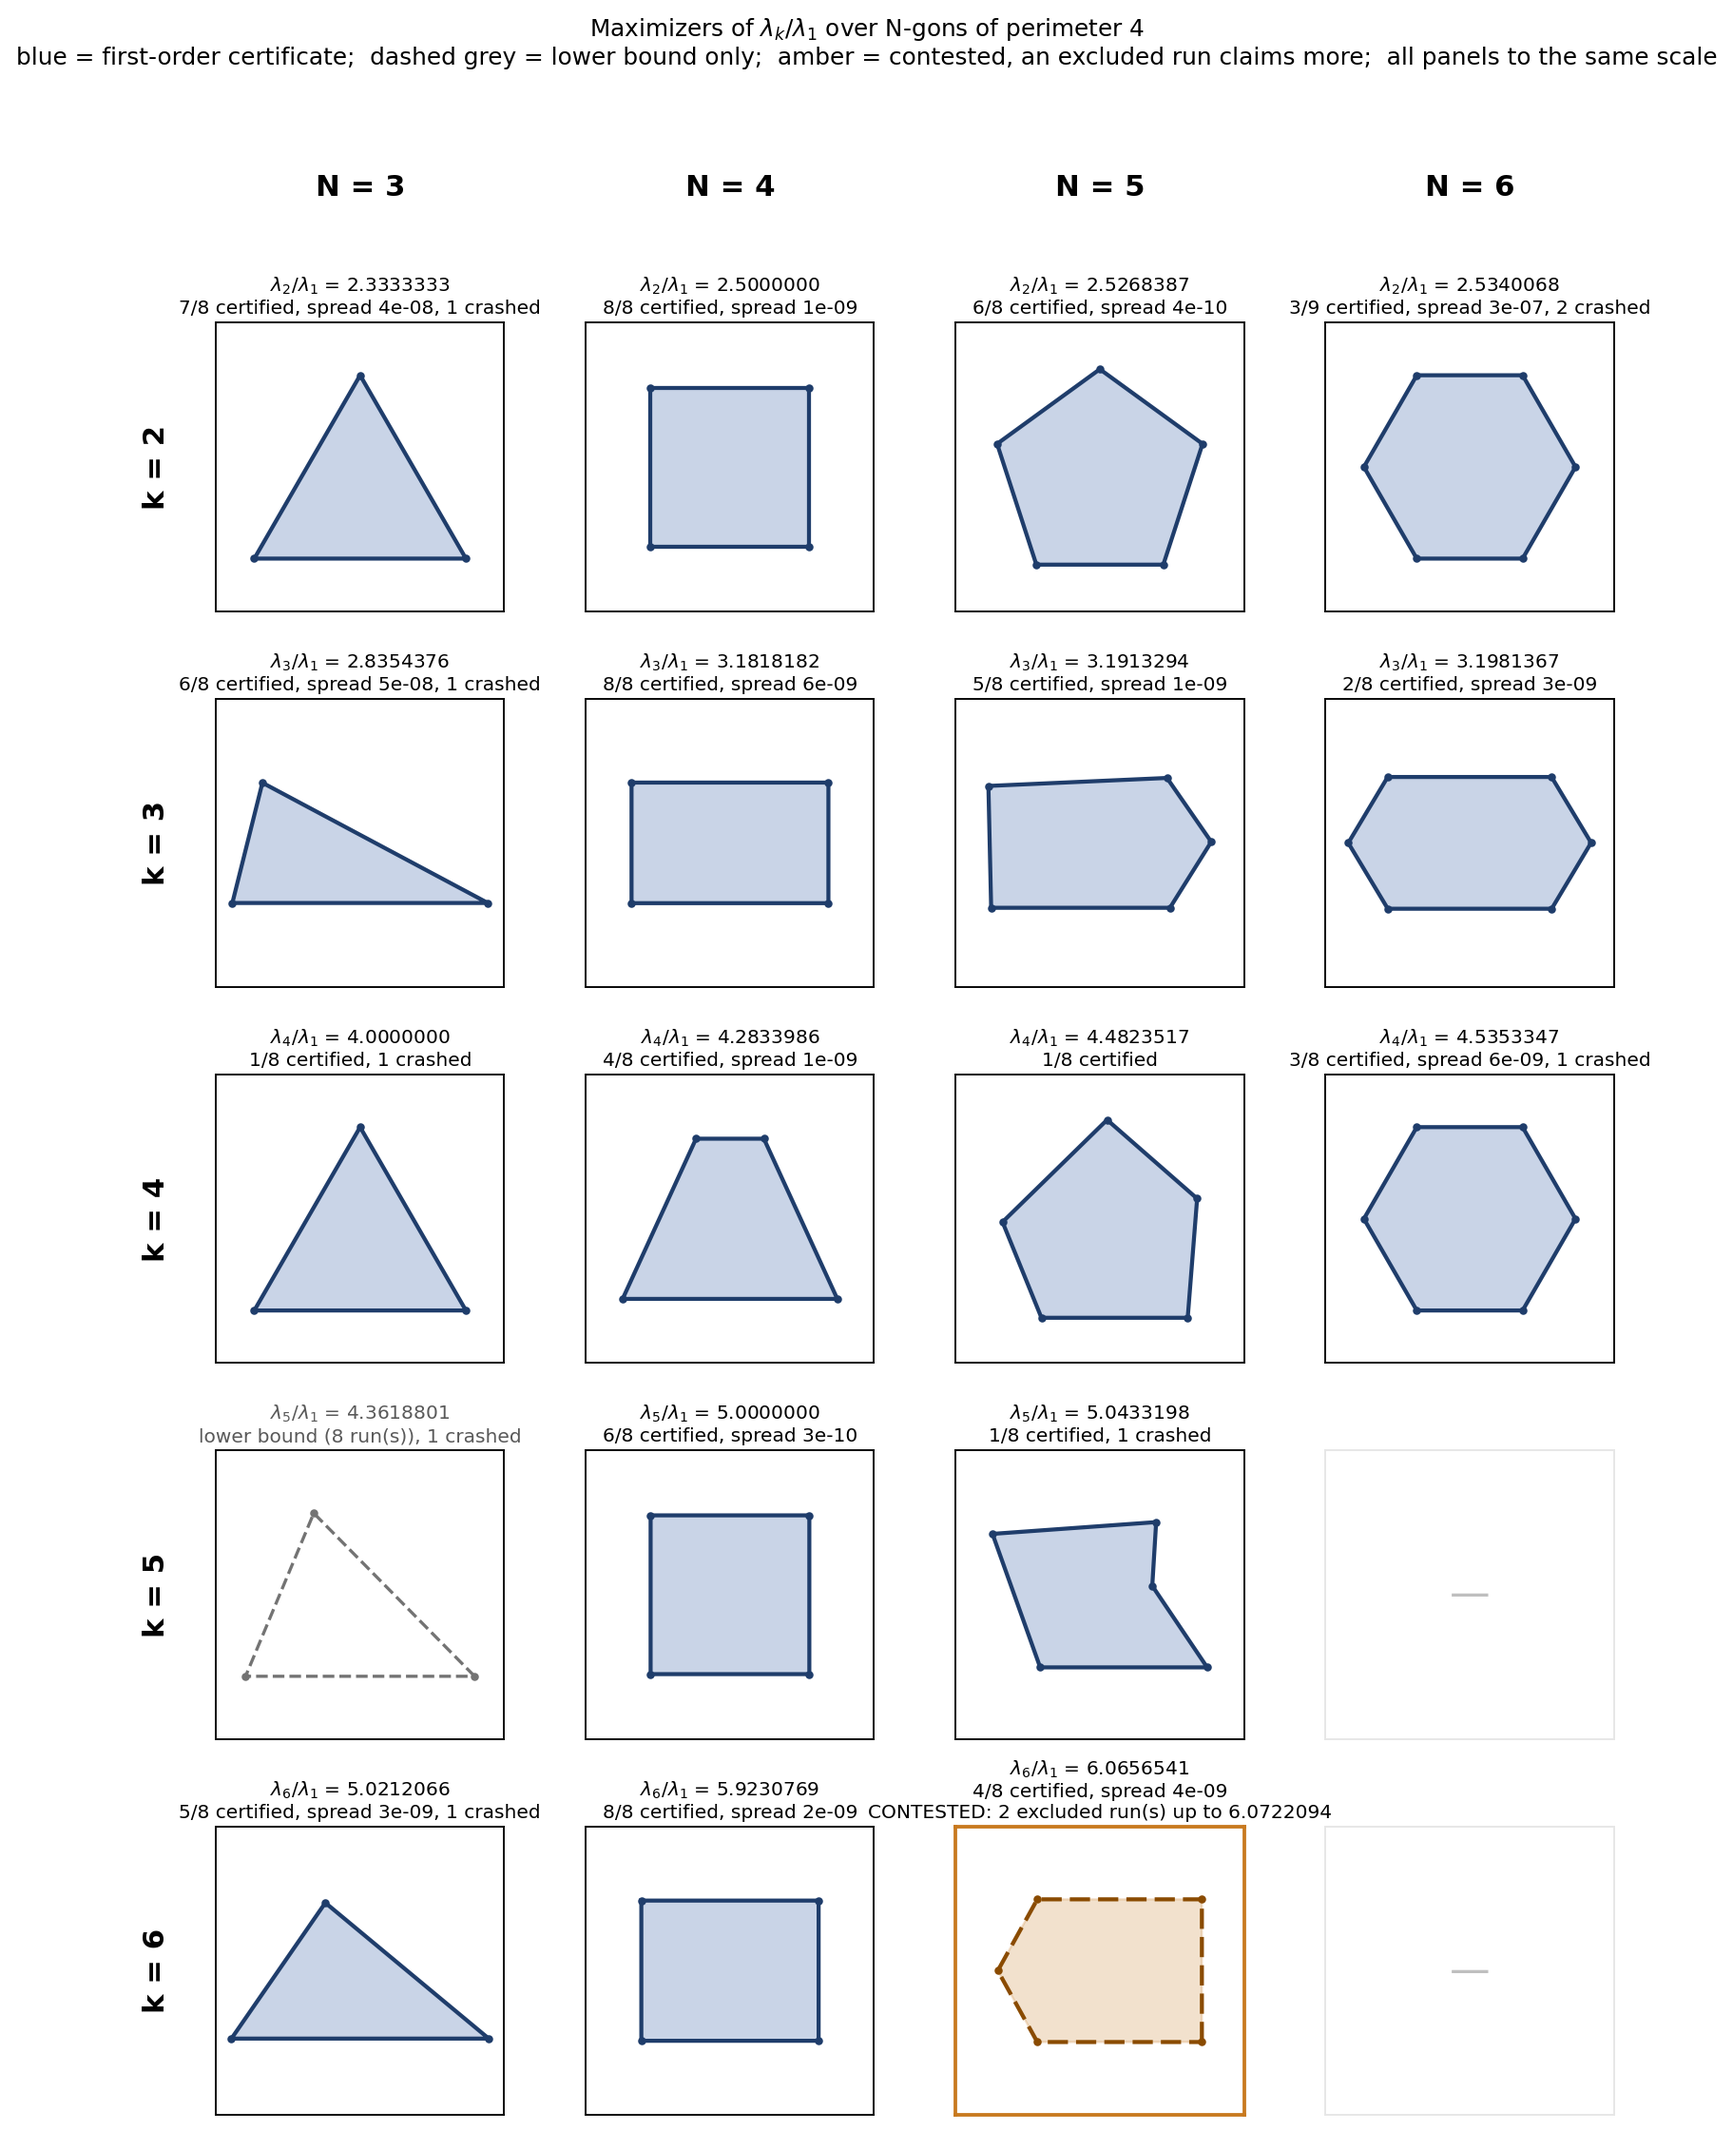
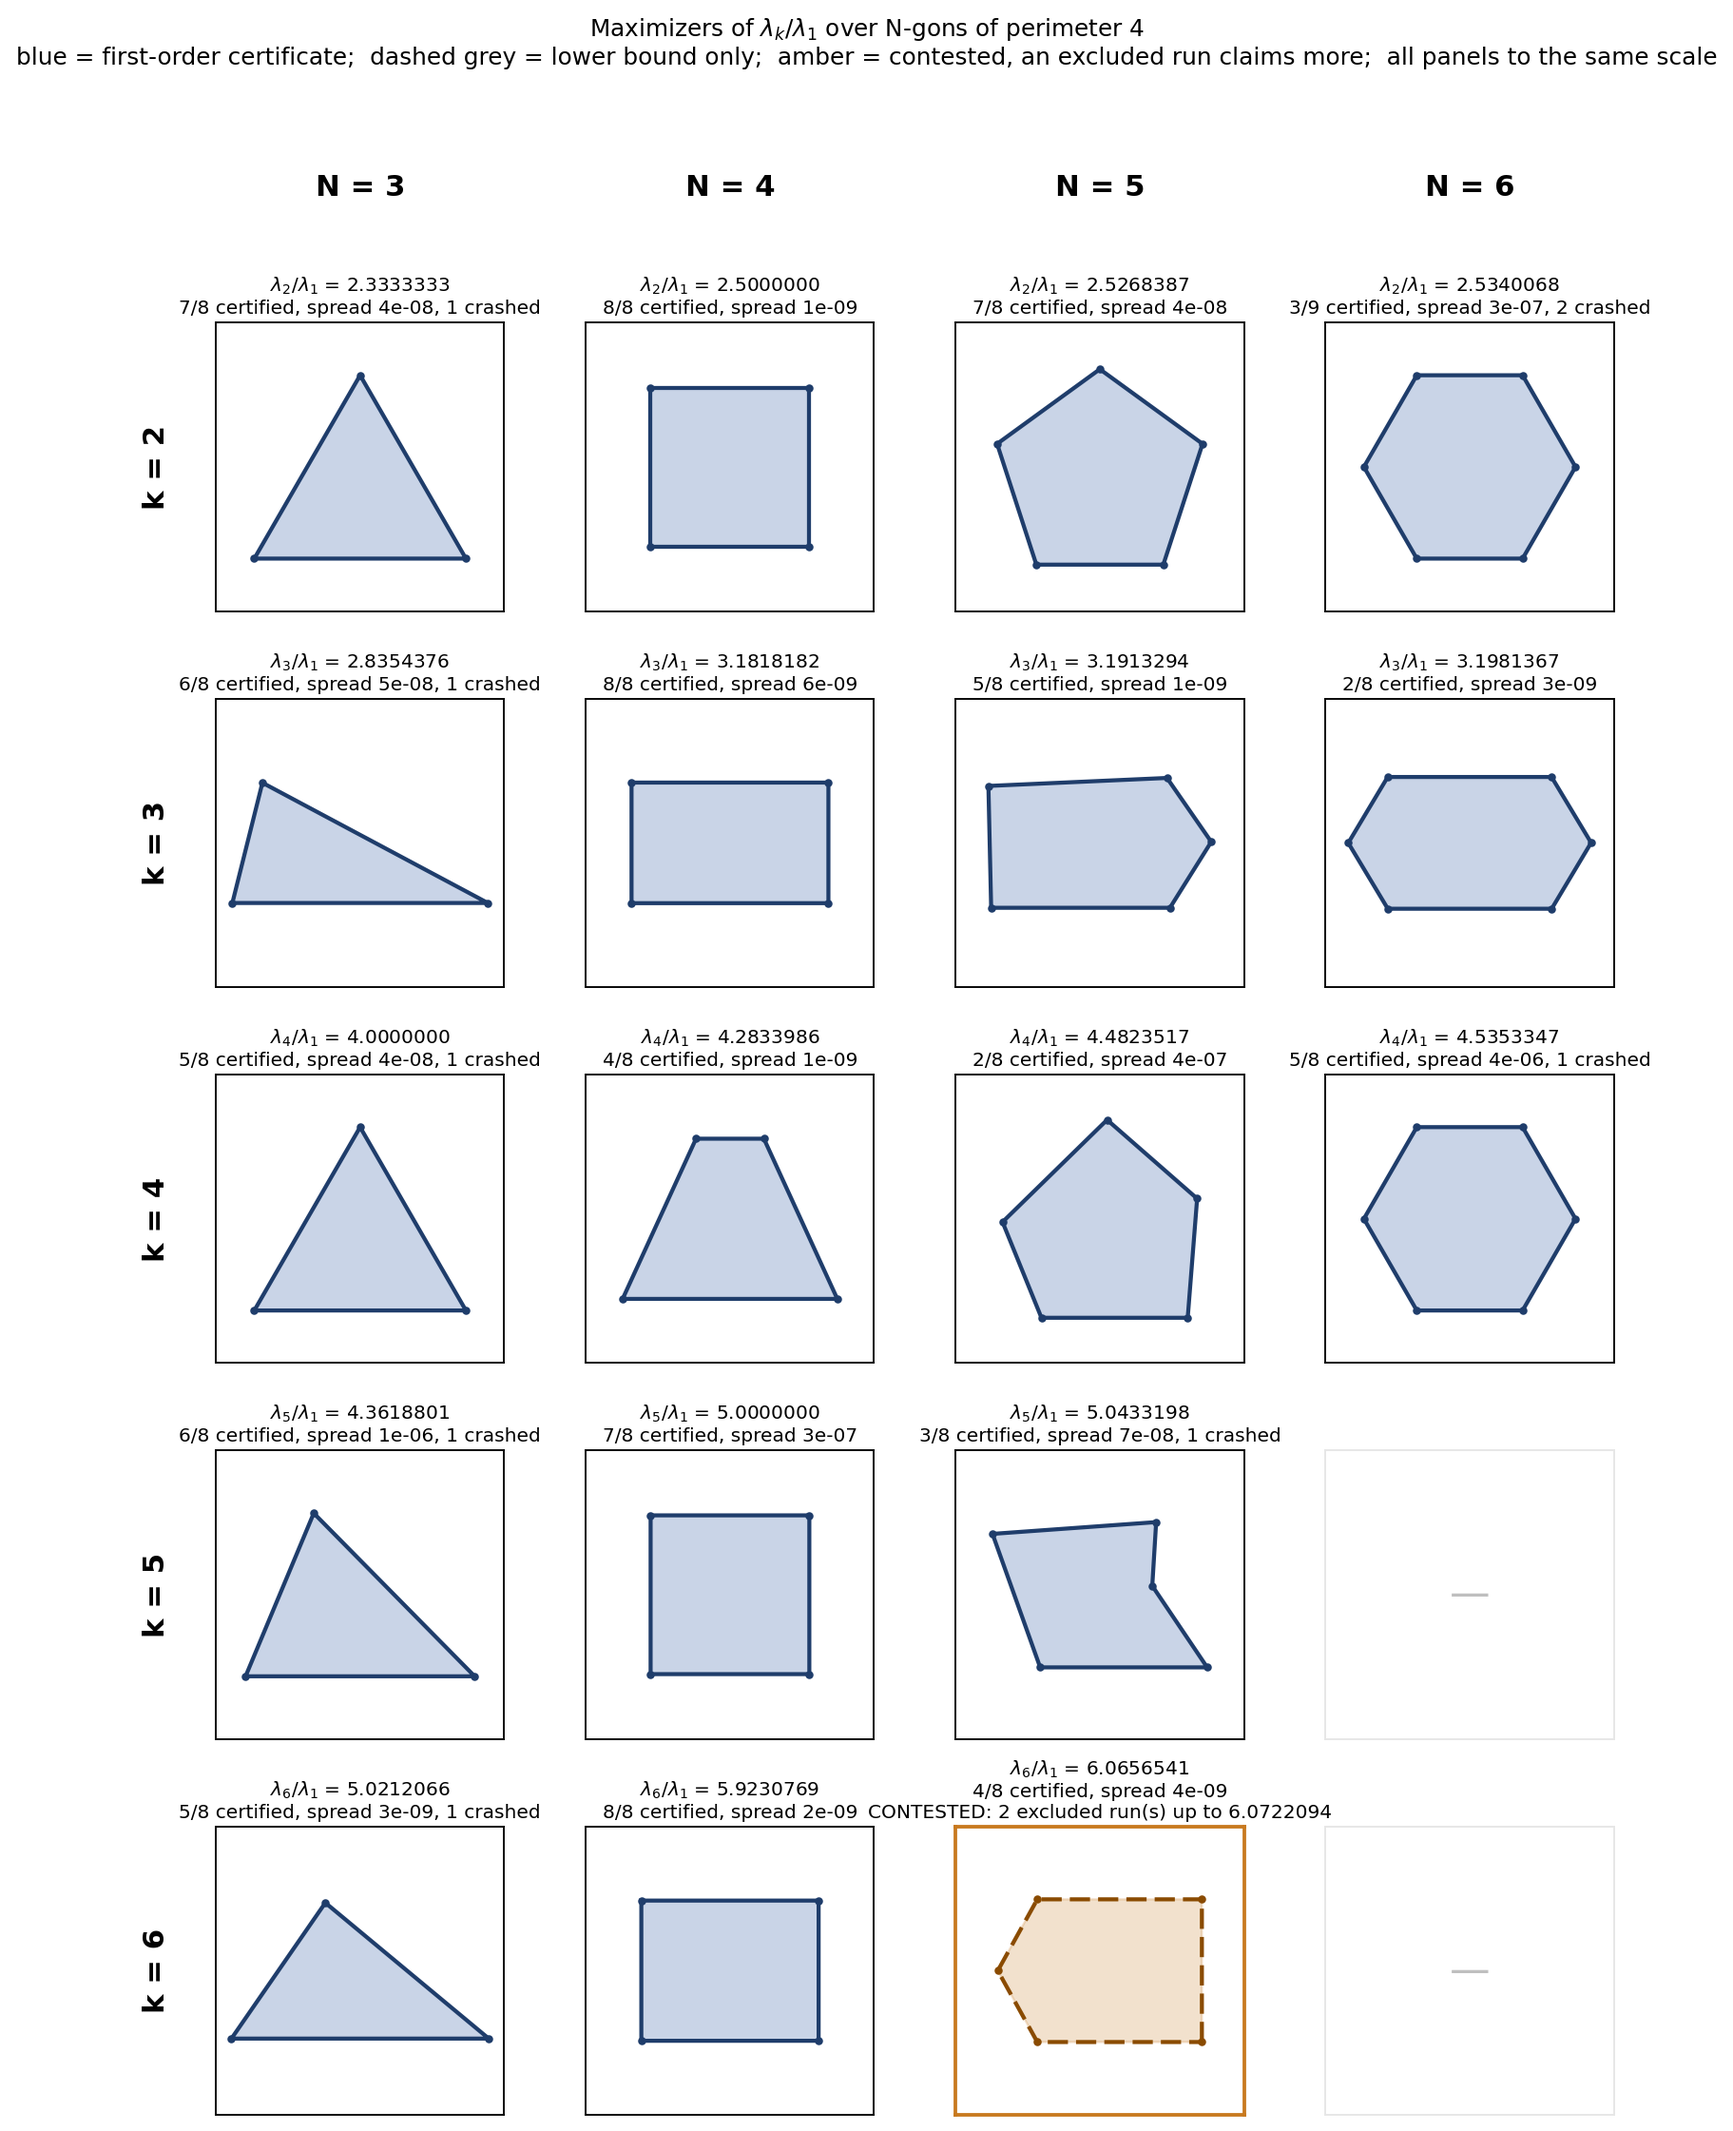
A certificate is the STOP, not a threshold on the resolution
Section 9 replaced `gain_tol` with plateau detection because a fixed threshold "certified
according to where each shape's noise floor happened to fall". `summarize_grid` then applied
`res_max = 1e-4` to the PLATEAU VALUE and repeated the mistake one layer up.

MEASURED OVER THE 20 ROWS IT WAS REJECTING: **17 agree with their cell's best to 1e-6**, most to
1e-8, and every one of them stopped on the plateau certificate. Of the other three, two sit
2.8e-06 and 3.3e-06 out -- the same optimum found less sharply -- and one is a different basin.
None was junk. N=3 `lam_5/lam_1` was being reported NONE CERTIFIED while six starts agreed on
4.3618801348.

The upper bound that DOES belong is already in the optimizer, where the measurement is:
`maximize_ratio` only runs the plateau test when criticality is under `plateau_max = 1e-3`, so a
run that plateaued absurdly high never certifies at all. Accuracy is the other guards' job --
`worst_sigma`, the Weyl deficit, and now the spurious-value bar. Resolution is an OPTIMALITY
measure, and gating accuracy on it is exactly the conflation section 9 identified.

`res_max` survives as a reported sharpness (`n_sharp`, a new column) rather than a gate, so the
quality information is kept and the verdict is no longer made by it.

Effect: **86 certified of 145 -> 106 of 145**, and NO cell's answer changes -- verified row by
row beforehand. The only movement is N=3 `lam_5/lam_1`, which goes from NONE CERTIFIED to 6 of 8
[…]

diff --git a/benchmarks/summarize_grid.py b/benchmarks/summarize_grid.py
@@ -142,12 +142,28 @@ def summarize(rows, sigma_max, res_max, agree_rtol=1e-6, near_rtol=1e-5):
     # value promoted out of this function is quoted.
     skipped = [r for r in clean if row_deficit(r) > spectral_guard.DEFICIT_TOL]
     clean = [r for r in clean if not (row_deficit(r) > spectral_guard.DEFICIT_TOL)]
-    good = [r for r in clean
-            if r.get('success') and np.isfinite(r.get('resolution', np.nan))
-            and r['resolution'] <= res_max]
+    # A CERTIFICATE IS THE STOP, NOT A THRESHOLD ON THE RESOLUTION -- section 9's lesson, which
+    # this line was repeating one layer up. `gain_tol` was replaced by plateau detection because a
+    # fixed threshold "certified according to where each shape's noise floor happened to fall";
+    # `res_max = 1e-4` was then applied to the PLATEAU VALUE and did the same thing. Measured over
+    # the 20 rows it was rejecting: **17 agree with their cell's best to 1e-6**, most to 1e-8, and
+    # every one of them stopped on the plateau certificate. Of the other three, two sit 2.8e-06
+    # and 3.3e-06 out -- the same optimum, less sharply -- and one is a different basin. None was
+    # junk, and N=3 `lam_5/lam_1` was reported NONE CERTIFIED while six starts agreed on it.
+    #
+    # The upper bound that DOES belong is already in the optimizer, where the measurement is:
+    # `maximize_ratio` only runs the plateau test when criticality is under `plateau_max = 1e-3`,
+    # so a run that plateaued absurdly high never certifies in the first place. Accuracy is the
+    # other guards' job (sigma, the Weyl deficit, the spurious-value bar); resolution is an
+    # OPTIMALITY measure, and gating accuracy on it is what conflates the two.
+    #
+    # `res_max` survives as a reported sharpness, `n_sharp`, not as a gate.
+    good = [r for r in clean if r.get('success')]
+    n_sharp = sum(1 for r in good if np.isfinite(r.get('resolution', np.nan))
+                  and r['resolution'] <= res_max)
     if not good:
         return dict(best=None, n_total=len(rows), n_crashed=len(crashed),
-                    n_skipped_mode=len(skipped),
+                    n_skipped_mode=len(skipped), n_sharp=0,
                     n_drifted=len(drifted), n_certified=0, n_agree=0, n_near=0,
                     n_clean=len(clean),
                     best_uncertified=(max((r['fun'] for r in clean), default=None)))
@@ -162,7 +178,7 @@ def summarize(rows, sigma_max, res_max, agree_rtol=1e-6, near_rtol=1e-5):
     # starts found the SAME point, and conflating them throws away the globality evidence.
     n_near = sum(abs(r['fun'] - best['fun']) <= near_rtol*abs(best['fun']) for r in clean)
     return dict(best=best, n_total=len(rows), n_crashed=len(crashed), n_clean=len(clean),
-                n_skipped_mode=len(skipped),
+                n_skipped_mode=len(skipped), n_sharp=n_sharp,
                 n_drifted=len(drifted), n_certified=len(good), n_agree=len(agreeing),
                 n_near=n_near, spread=spread, best_uncertified=None)
 
@@ -198,8 +214,8 @@ def main():
 
     print(f'{len(cells)} cell(s) from {args.dir}\n')
     print('   N   k  family   max lam_k/lam_1     spread   resolution  agree near cert/tot'
-          '  oracle (N=4)')
-    print('  ' + '-'*94)
+          ' sharp  oracle (N=4)')
+    print('  ' + '-'*101)
     for N, k, conv, s in cells:
         fam = 'convex' if conv else 'all   '
         if s['best'] is None:
@@ -217,7 +233,7 @@ def main():
         print(f"  {N:2d}  {k+1:2d}  {fam}  {b['fun']:16.10f}  {s['spread']:8.1e}  "
               f"{b['resolution']:10.2e}  {s['n_agree']:2d}/{s['n_certified']:<2d} "
               f"{s['n_near']:2d}/{s['n_clean']:<2d} {s['n_certified']}/{s['n_total']}"
-              f"{oracle}")
+              f" {s['n_sharp']:2d}/{s['n_certified']:<2d}{oracle}")
 
     print('\n  shapes of the best certified point in each cell:')
     for N, k, conv, s in cells:
@@ -251,7 +267,11 @@ def main():
     crash, drift, missed = total('n_crashed'), total('n_drifted'), total('n_skipped_mode')
     print(f'\n  {cert} certified of {tot} run(s); {drift} excluded on worst_sigma, '
           f'{missed} on a missed mode, {crash} crashed')
-    print('  agree = certified starts (resolution <= res_max) that found the best value.')
+    print('  agree = certified starts that found the best value; CERTIFIED means the run')
+    print('          stopped on a first-order certificate (gain_tol or the plateau test).')
+    print(f'  sharp = of those, how many reached resolution <= {args.res_max:.0e}. A REPORTED')
+    print('          quality, not a gate: the plateau height is set by the shape\'s own noise')
+    print('          floor, so thresholding it certifies by geometry rather than by optimality.')
     print('  near  = ALL clean starts within 1e-5 of it -- the same shape found less sharply,')
     print('          which is the globality evidence; resolution is a separate question.')
     print('  spread = how far apart the agreeing certified starts ended in F (the uncertainty).')

diff --git a/tests/test_multistart_summary.py b/tests/test_multistart_summary.py
@@ -134,3 +134,36 @@ def test_a_ledger_row_says_which_guards_produced_it():
     src = inspect.getsource(rm.run_one)
     for field in ('enforce_weyl=', 'deficit_tol=', 'n_weyl_refusals=', 'refusals='):
         assert field in src, field
+
+
+def test_a_certificate_is_the_STOP_not_a_threshold_on_the_resolution():
+    """Section 9's lesson, one layer up. `gain_tol` was replaced by plateau detection because a
+    fixed threshold certified according to where each shape's noise floor happened to fall;
+    `res_max` was then applied to the plateau VALUE and did the same thing. Measured: of the 20
+    rows it rejected, 17 agreed with their cell's best to 1e-6."""
+    sg = pytest.importorskip('benchmarks.summarize_grid')
+    row = dict(N=5, k=2, start=0, fun=3.0, worst_sigma=1e-11, worst_weyl_deficit=0.0,
+               success=True, resolution=6.4e-4, ok=True, nit=10, seconds=1.0, message='plateaued')
+    s = sg.summarize([row], sigma_max=1e-6, res_max=1e-4)
+    assert s['best'] is not None, 'a plateau certificate above res_max must still certify'
+    assert s['n_certified'] == 1
+    assert s['n_sharp'] == 0, 'and must be reported as not sharp'
+
+
+def test_the_sharp_count_still_distinguishes_quality():
+    sg = pytest.importorskip('benchmarks.summarize_grid')
+    mk = lambda res, f: dict(N=5, k=2, start=0, fun=f, worst_sigma=1e-11,               # noqa
+                             worst_weyl_deficit=0.0, success=True, resolution=res,
+                             ok=True, nit=10, seconds=1.0, message='plateaued')
+    s = sg.summarize([mk(6.4e-4, 3.0), mk(1e-6, 3.0)], sigma_max=1e-6, res_max=1e-4)
+    assert s['n_certified'] == 2 and s['n_sharp'] == 1
+
+
+def test_the_upper_bound_that_matters_lives_in_the_optimizer():
+    """Nothing certifies with an absurd plateau, because `maximize_ratio` only runs the plateau
+    test when criticality is already under `plateau_max`. That is the bound, and it sits where
+    the measurement is."""
+    import inspect
+    from douse import cluster_opt
+    sig = inspect.signature(cluster_opt.maximize_ratio).parameters
+    assert 'plateau_max' in sig and sig['plateau_max'].default == 1e-3

diff --git a/benchmarks/plot_optima.py b/benchmarks/plot_optima.py
@@ -135,10 +135,13 @@ def collect(include_pre_fix, sigma_max=1e-6, res_max=1e-4, convex=False):
                       f'{PPW:.7f} (max {max(r["fun"] for r in impossible):.7f}) -- a missed mode')
             if not clean:
                 continue
+            # THE CERTIFICATE IS THE STOP, not a threshold on the resolution -- see the note
+            # in `summarize_grid.summarize`. Gating on the plateau height certifies by the
+            # shape's noise floor rather than by optimality, and it was rejecting 20 rows of
+            # which 17 agreed with their cell's best to 1e-6.
             # pre-fix rows have no `resolution` and are never treated as certified
             good = [r for r in clean if (not pre) and r.get('success')
-                    and np.isfinite(r.get('resolution', np.nan))
-                    and r['resolution'] <= res_max]
+                    and np.isfinite(r.get('resolution', np.nan))]
             pool = good or clean
             best = max(pool, key=lambda r: r['fun'])
             agree = [r for r in pool if abs(r['fun'] - best['fun']) <= 1e-6*abs(best['fun'])]
